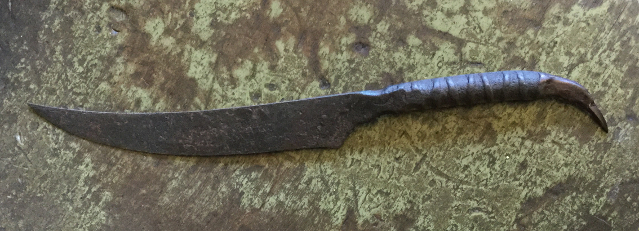
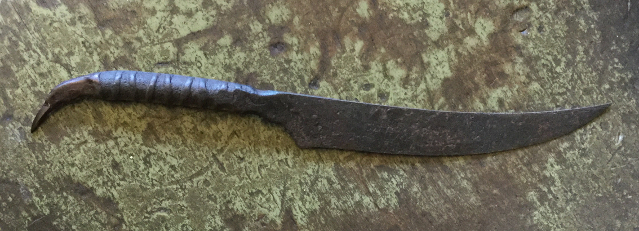
pic fix

diff --git a/V2/index.html b/V2/index.html
@@ -82,7 +82,7 @@
             </div>
             <div class="col-6">
                 <figure>
-                    <a href="metal.html"><img id="flipH" src="img/metal.jpg" alt="Metal"></a>
+                    <a href="metal.html"><src="img/metal.jpg" alt="Metal"></a>
                 </figure>
             </div>
             <div class="col-3">
